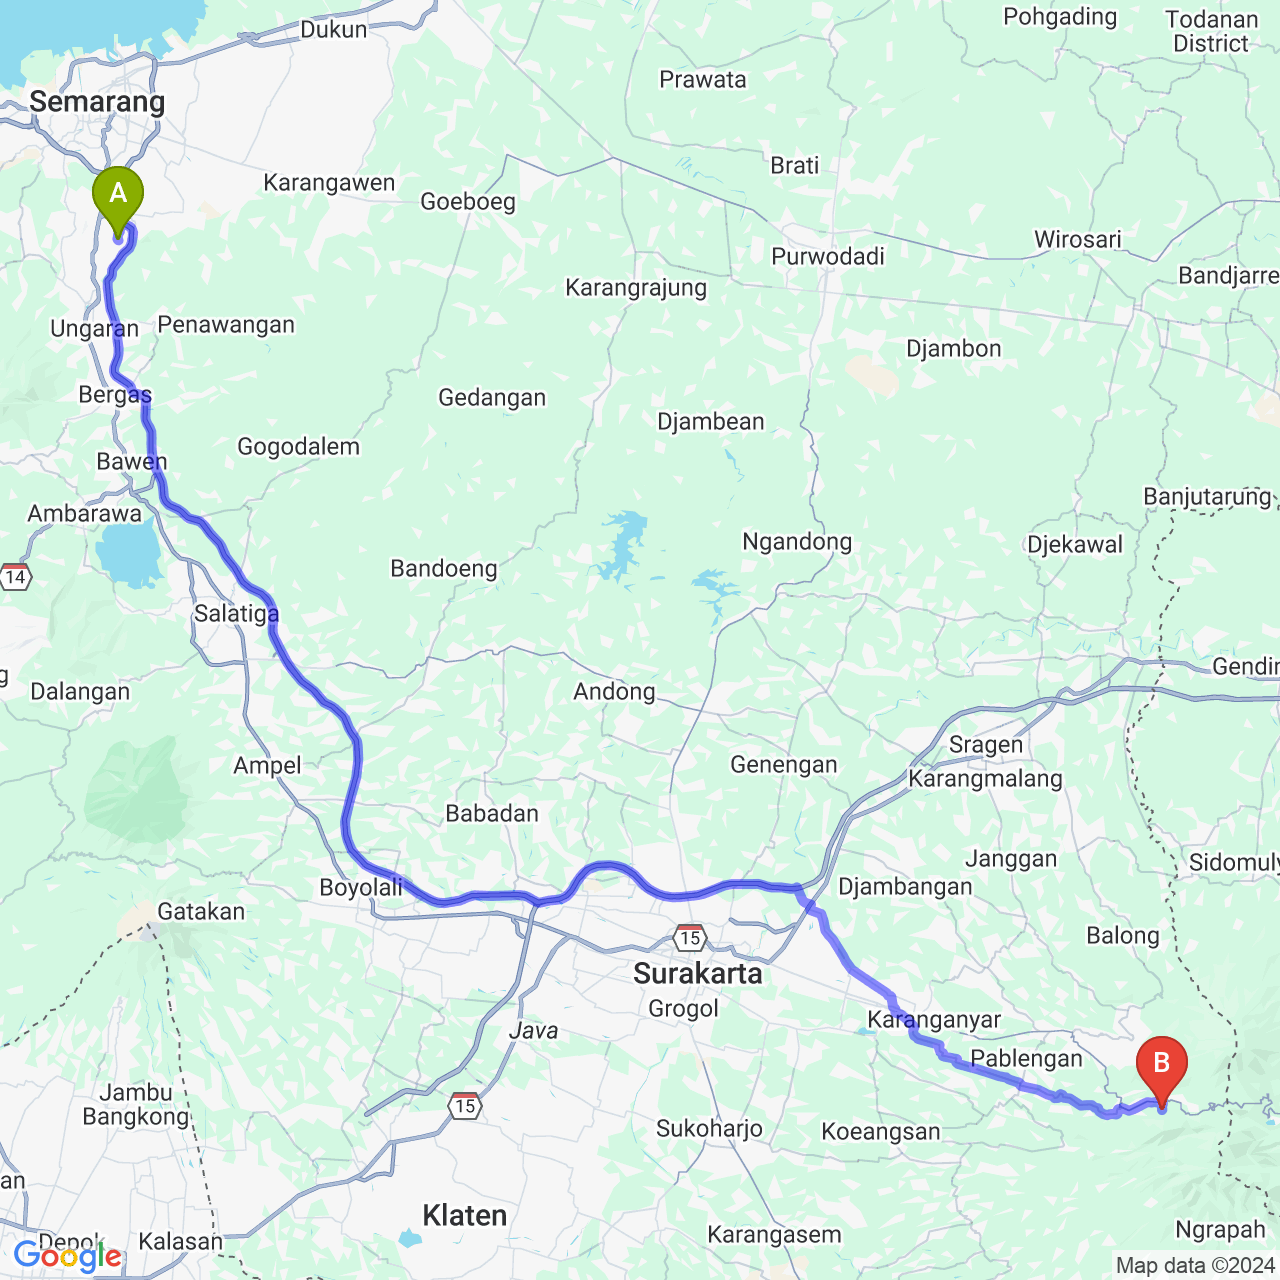
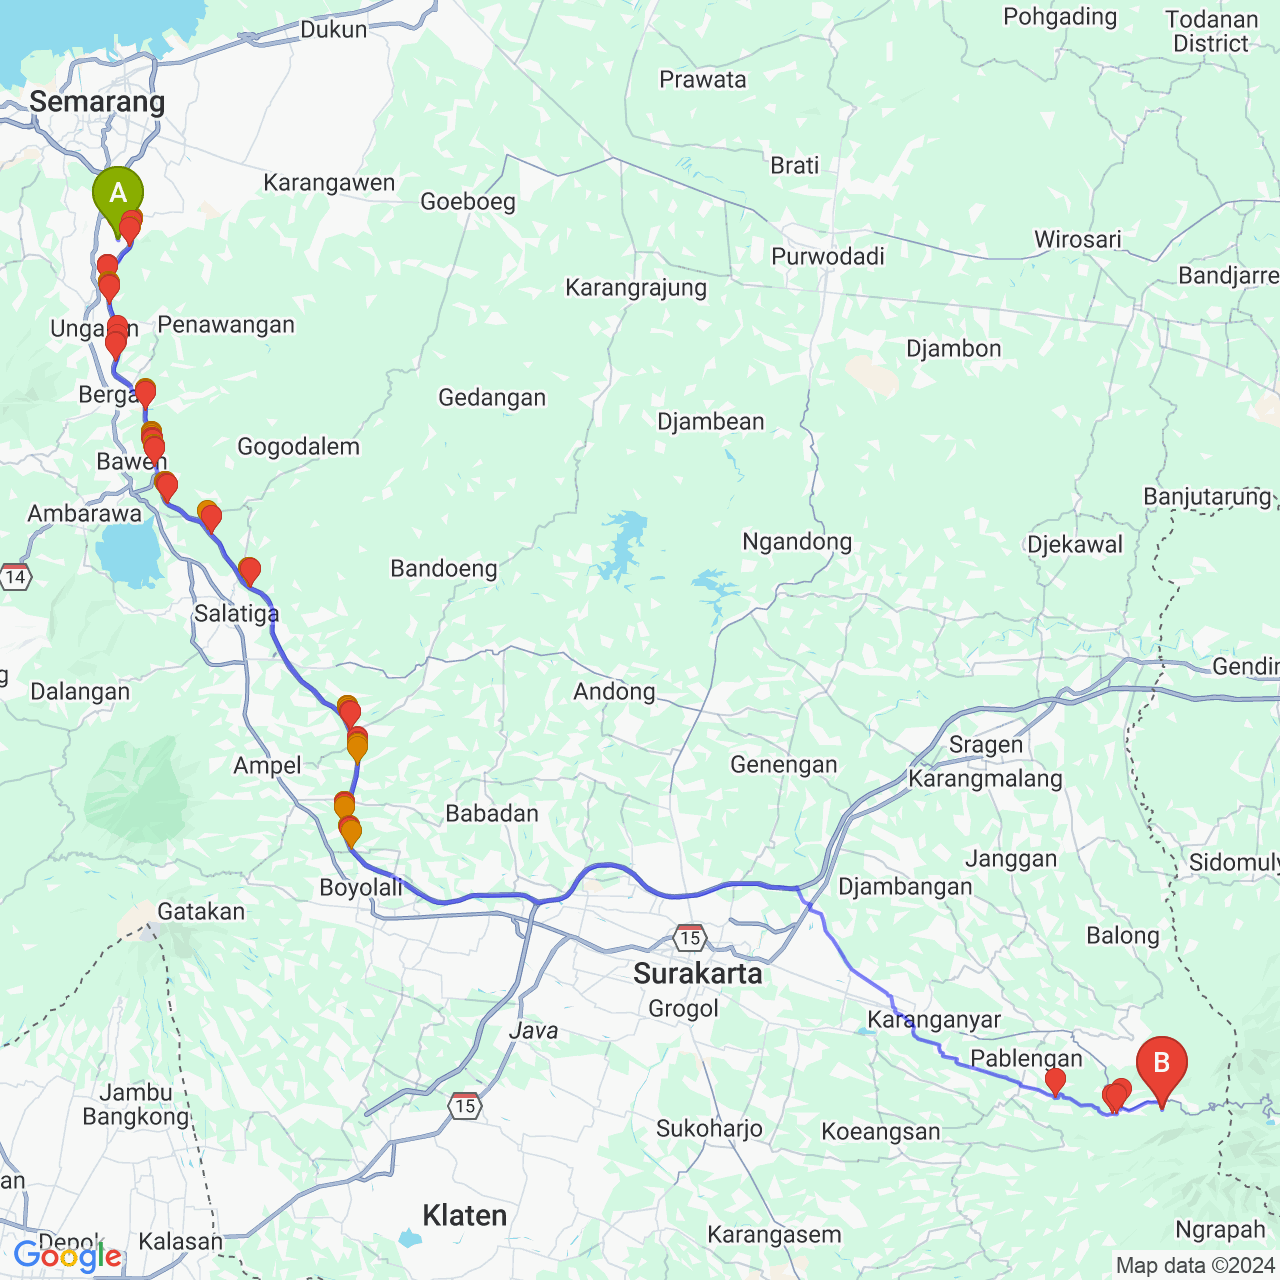
feature: titik tanjakan/turunan tajam

diff --git a/simple-route-to-elevation.py b/simple-route-to-elevation.py
@@ -280,16 +280,38 @@ class ImprovedRouteAnalyzer:
         
         return df
     
-    def plot_route_map(self, df: pd.DataFrame):
-        """Generate and save a static map with the route."""
+    def plot_route_map(self, df: pd.DataFrame, grade_threshold: float = 15.0):
+        """
+        Generate and save a static map with the route, highlighting steep segments.
+        
+        Args:
+            df: DataFrame with route data
+            grade_threshold: Grade percentage to mark as steep
+        """
         try:
-            # Generate static map URL using overview_polyline
+            # Find steep sections
+            steep_ascents = df[df['grade'] > grade_threshold]
+            steep_descents = df[df['grade'] < -grade_threshold]
+            
+            # Base map URL
             map_url = f"https://maps.googleapis.com/maps/api/staticmap?"
             map_url += f"size=2048x2048&scale=2"  # High resolution map
             map_url += f"&maptype=roadmap"
-            map_url += f"&path=enc:{self.route_info['overview_polyline']}"
-            map_url += f"&markers=color:green|label:A|{df.iloc[0]['lat']},{df.iloc[0]['lng']}"  # Start point
-            map_url += f"&markers=color:red|label:B|{df.iloc[-1]['lat']},{df.iloc[-1]['lng']}"  # End point
+            
+            # Main route path (blue)
+            map_url += f"&path=color:blue|weight:2|enc:{self.route_info['overview_polyline']}"
+            
+            # Add steep ascents (red)
+            for _, section in steep_ascents.iterrows():
+                map_url += f"&markers=color:red|size:tiny|{section['lat']},{section['lng']}"
+                
+            # Add steep descents (orange)
+            for _, section in steep_descents.iterrows():
+                map_url += f"&markers=color:orange|size:tiny|{section['lat']},{section['lng']}"
+            
+            # Start and end markers
+            map_url += f"&markers=color:green|label:A|{df.iloc[0]['lat']},{df.iloc[0]['lng']}"
+            map_url += f"&markers=color:red|label:B|{df.iloc[-1]['lat']},{df.iloc[-1]['lng']}"
             map_url += f"&key={self.api_key}"
             
             # Download and save the map
@@ -404,7 +426,7 @@ def main():
 
     # Generate and display route map
     analyzer.plot_route_map(df)
-    
+
 #%% main call
 if __name__ == "__main__":
     main()
